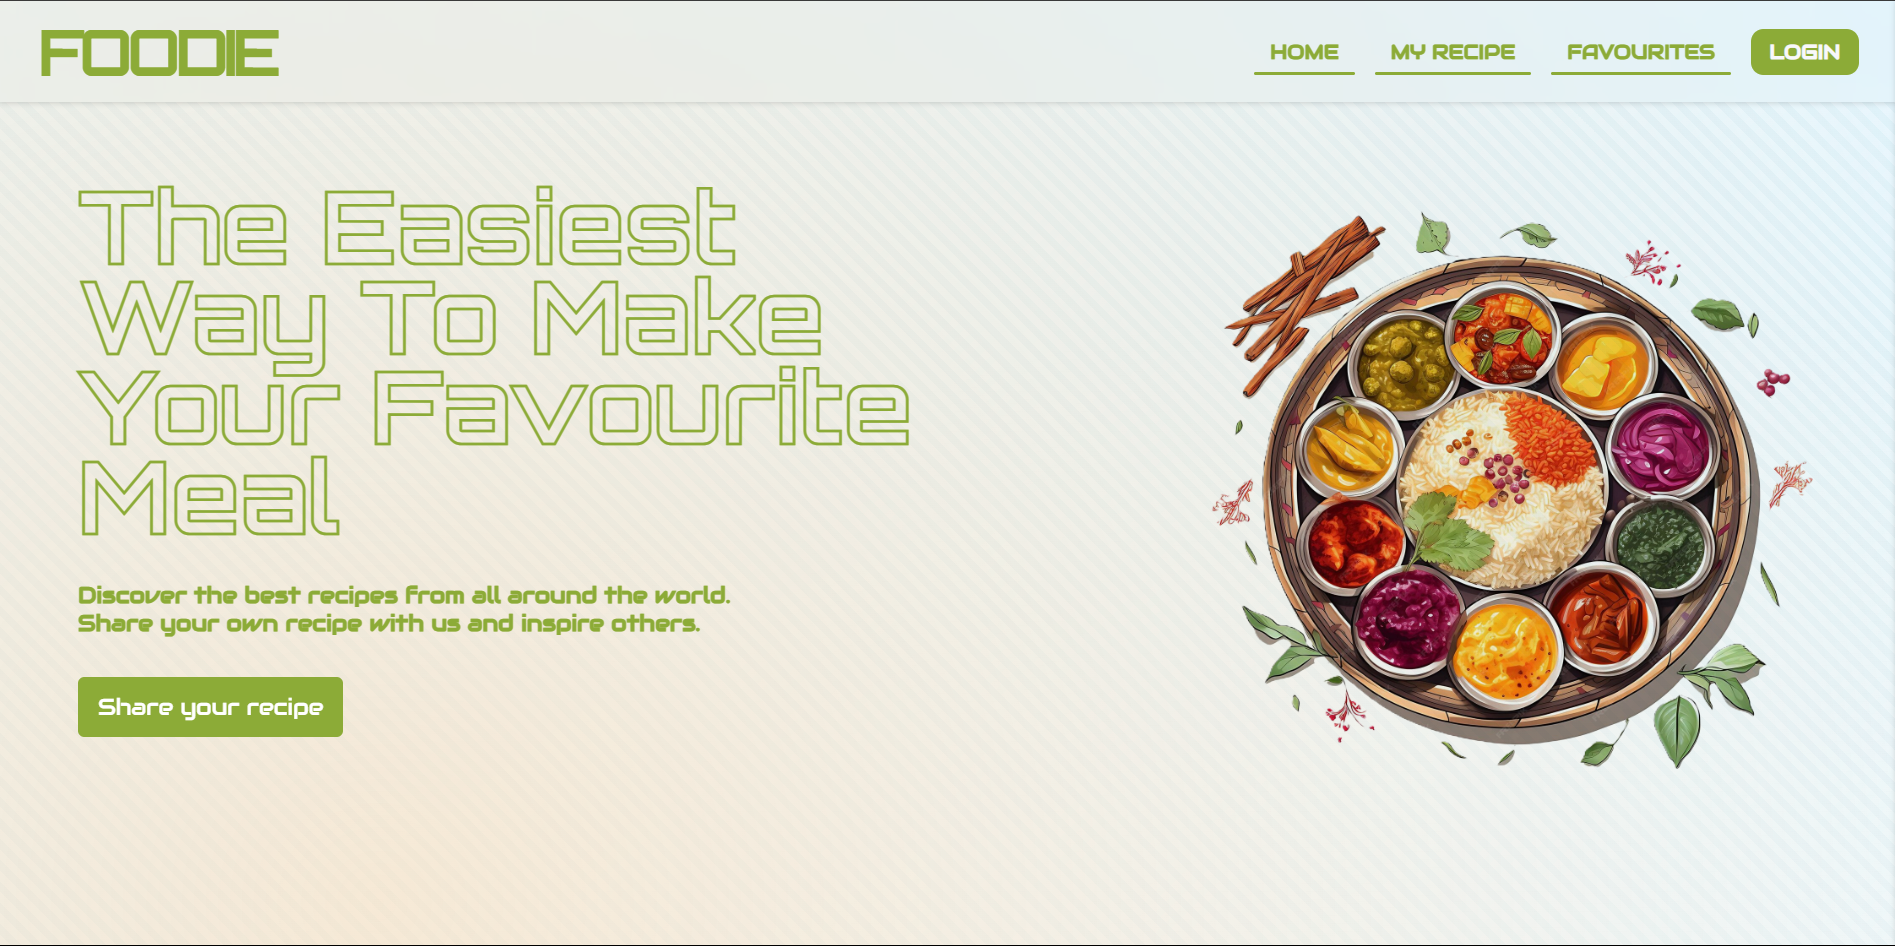
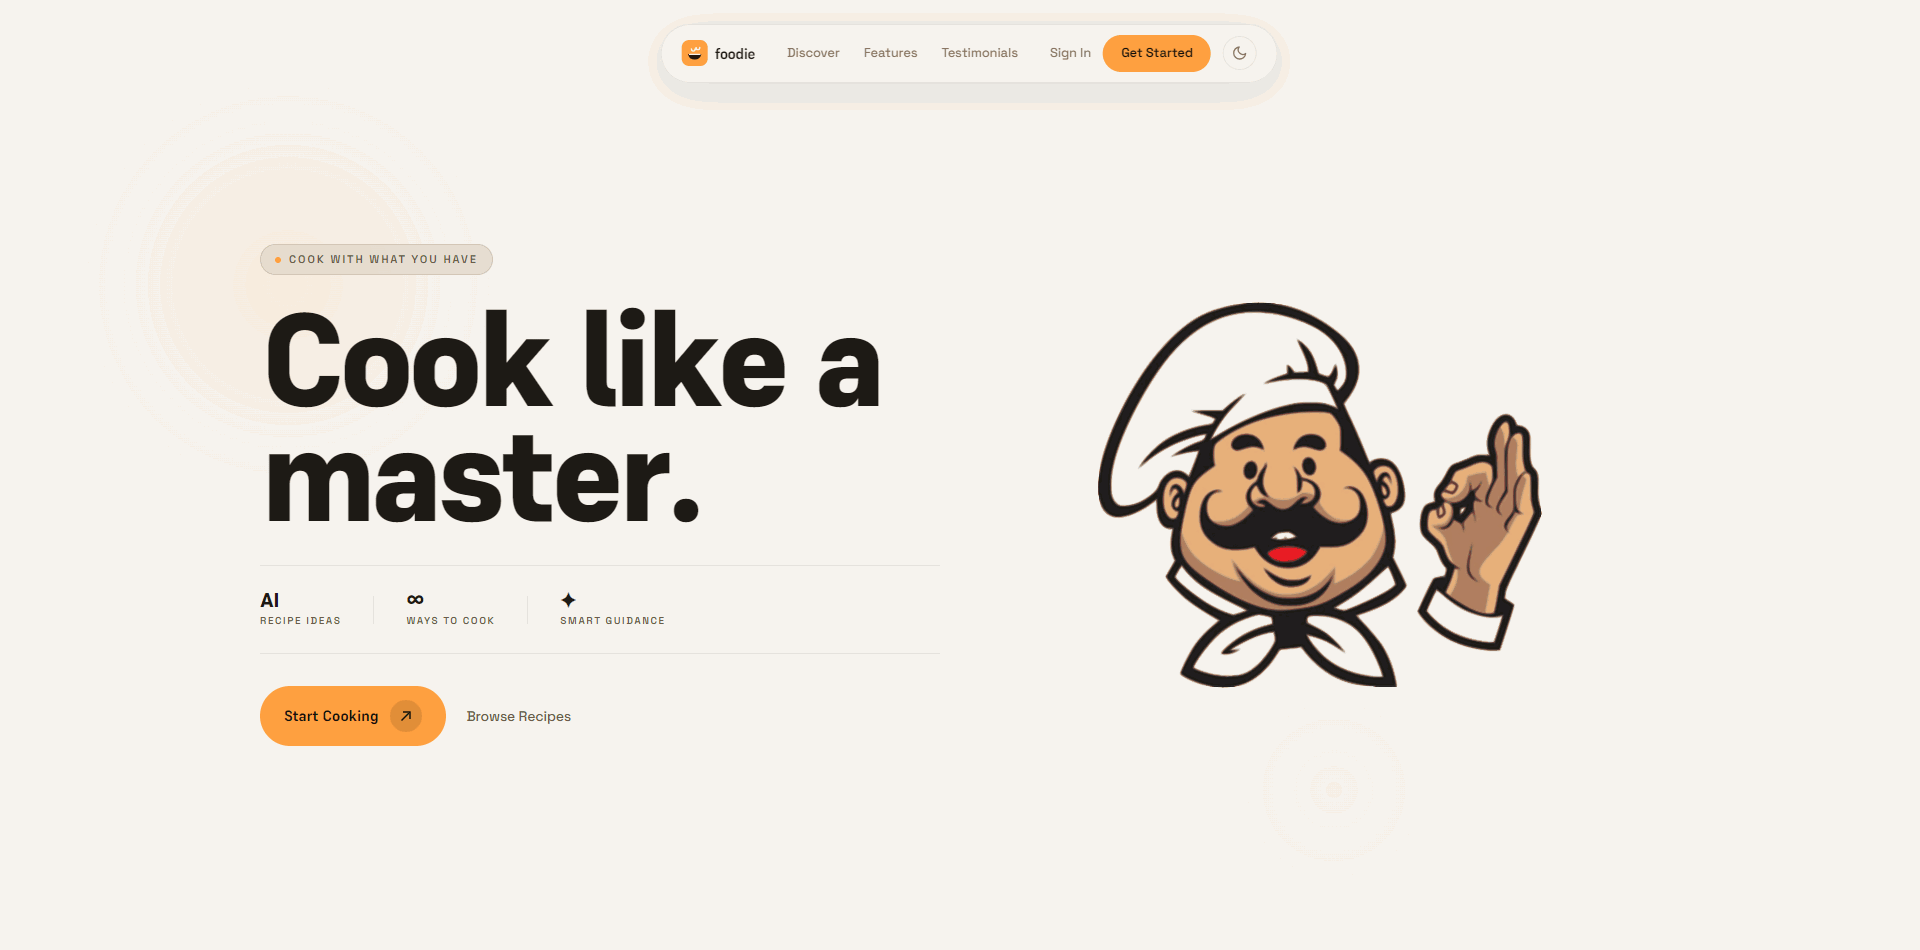
feat: update projects and experience
- Add Tydo, Atelier and Kaarigar Studio projects with live screenshots
- Rename LinkVault to Bookmarky and Food Recipe App to Foodie; refresh
  TaskFlow; new screenshots, descriptions and live links
- CatalyzeX full-time duration now computed from start date; refresh
  role description, highlights and skills
- About: mention current role, bump project count

diff --git a/src/components/Projects.jsx b/src/components/Projects.jsx
@@ -23,15 +23,83 @@ import linkVaultBanner from "../assets/linkvault.png";
 import cocBanner from "../assets/coc.png";
 import supabaseIcon from "../assets/supabase-dark.svg";
 import nodeIcon from "../assets/nodejs-icon.svg";
+import tsIcon from "../assets/typescript (1).svg";
+import nextIcon from "../assets/nextjs.svg";
+import tydo from "../assets/tydo.png";
+import atelier from "../assets/atelier.png";
+import kaarigar from "../assets/kaarigar.png";
 
 const webProjects = [
     {
+        id: 2,
+        title: "Bookmarky",
+        category: "Full Stack",
+        image: linkVaultBanner,
+        description: "Personal bookmark library that turns links, screenshots and files into searchable folders: rich previews, tags, bulk and browser-bookmark import, PDF export.",
+        liveLink: "https://link-vault-two.vercel.app/",
+        codeLink: "https://github.com/aniketkumar7/LinkVault",
+        technologies: [
+            { name: "React", icon: reactIcon },
+            { name: "TypeScript", icon: tsIcon },
+            { name: "Tailwind", icon: tailwindIcon },
+            { name: "Supabase", icon: supabaseIcon },
+            { name: "Node.js", icon: nodeIcon },
+        ],
+        year: "2026",
+    },
+    {
+        id: 10,
+        title: "Tydo",
+        category: "Productivity",
+        image: tydo,
+        description: "Productivity workspace combining todos (list + kanban), habits and streaks, focus timer, notes, Google Calendar sync, analytics, and a command palette.",
+        liveLink: "https://tydo-rho.vercel.app/",
+        codeLink: "https://github.com/aniketkumar7/Tydo",
+        technologies: [
+            { name: "React", icon: reactIcon },
+            { name: "TypeScript", icon: tsIcon },
+            { name: "Tailwind", icon: tailwindIcon },
+            { name: "Supabase", icon: supabaseIcon },
+        ],
+        year: "2026",
+    },
+    {
+        id: 11,
+        title: "Atelier",
+        category: "Full Stack",
+        image: atelier,
+        description: "Neo-brutalist art gallery and marketplace with collections, commissions, and an admin dashboard (JWT auth, bulk edits, analytics) on Cloudflare Workers + D1.",
+        liveLink: "https://art-marketplace.aniketkumar639597.workers.dev/",
+        codeLink: "https://github.com/aniketkumar7/Atelier",
+        technologies: [
+            { name: "Next.js", icon: nextIcon },
+            { name: "TypeScript", icon: tsIcon },
+            { name: "Cloudflare" },
+        ],
+        year: "2026",
+    },
+    {
+        id: 12,
+        title: "Kaarigar Studio",
+        category: "Client Work",
+        image: kaarigar,
+        description: "SEO-first business site for a Delhi laser cutting and CNC studio. Every page pre-rendered to static HTML, content-driven services, blog and shop.",
+        liveLink: "https://kaarigar-studio-mu.vercel.app/",
+        codeLink: "https://github.com/aniketkumar7/kaarigar-studio",
+        technologies: [
+            { name: "React", icon: reactIcon },
+            { name: "React Router" },
+            { name: "Tailwind", icon: tailwindIcon },
+        ],
+        year: "2026",
+    },
+    {
         id: 1,
-        title: "Food Recipe App",
+        title: "Foodie",
         category: "Full Stack",
         image: food,
-        description: "Community-driven recipe sharing platform with user authentication and secure recipe management.",
-        liveLink: "https://food-app-29au.onrender.com/",
+        description: "Community recipe platform to discover, cook, and share recipes, with AI-powered meal planning and recipe suggestions.",
+        liveLink: "https://food-blog-app-green.vercel.app/",
         codeLink: "https://github.com/aniketkumar7/FOOD_BLOG_APP",
         technologies: [
             { name: "React", icon: reactIcon },
@@ -41,23 +109,6 @@ const webProjects = [
             { name: "Node.js", icon: nodeIcon },
         ],
         year: "2025",
-    },
-    {
-        id: 2,
-        title: "LinkVault",
-        category: "Full Stack",
-        image: linkVaultBanner,
-        description: "Personal link vault to save, organize, and never lose useful URLs (collections, tags, favorites, search).",
-        liveLink: "https://link-vault-beta.vercel.app/",
-        codeLink: "https://github.com/aniketkumar7/LinkVault",
-        technologies: [
-            { name: "React", icon: reactIcon },
-            { name: "Tailwind", icon: tailwindIcon },
-            { name: "Supabase", icon: supabaseIcon },
-            { name: "JavaScript", icon: jsIcon },
-            { name: "Node.js", icon: nodeIcon },
-        ],
-        year: "2026",
     },
     {
         id: 3,
@@ -76,10 +127,10 @@ const webProjects = [
     },
     {
         id: 4,
-        title: "Task Flow",
+        title: "TaskFlow",
         category: "Productivity",
         image: task,
-        description: "Elegant task management app with filtering and local storage.",
+        description: "Minimal, fast, local-first task tracker with priorities, due dates, search, keyboard shortcuts, and light/dark themes.",
         liveLink: "https://task-flow-theta-ruddy.vercel.app/",
         codeLink: "https://github.com/aniketkumar7/Task-Flow",
         technologies: [

diff --git a/src/components/Experience.jsx b/src/components/Experience.jsx
@@ -3,6 +3,14 @@ import Marquee from "../Loader/Marquee";
 import { useTheme } from "../context/ThemeContext";
 import "./Experience.css";
 
+// Months since start (inclusive), formatted like LinkedIn: "1 yr 3 mos"
+const sinceDuration = (year, month) => {
+    const now = new Date();
+    const total = (now.getFullYear() - year) * 12 + (now.getMonth() + 1 - month) + 1;
+    const y = Math.floor(total / 12), m = total % 12;
+    return [y && `${y} yr${y > 1 ? "s" : ""}`, m && `${m} mo${m > 1 ? "s" : ""}`].filter(Boolean).join(" ");
+};
+
 const Experience = forwardRef(({ textColor }, ref) => {
     const { theme } = useTheme();
     const [activeIndex, setActiveIndex] = useState(0);
@@ -13,14 +21,15 @@ const Experience = forwardRef(({ textColor }, ref) => {
             type: "Full-time",
             company: "CatalyzeX",
             period: "Sep 2025 — Present",
-            duration: "5 mos",
+            duration: sinceDuration(2025, 9),
             location: "Remote",
-            description: "Building and scaling software solutions with focus on web engineering and software design.",
+            description: "Converted to full-time after the internship. Shipping product features end to end, from React/Next.js frontends to FastAPI services.",
             highlights: [
-                "Developing scalable web applications",
-                "Contributing to software architecture decisions"
+                "Building production features across TypeScript frontends and Python/FastAPI backends",
+                "Working on systems that handle sensitive data, with access control and audit trails",
+                "Polishing UI and motion with Framer Motion; reviewing code for security and reliability"
             ],
-            skills: ["Software Design", "Web Engineering", "Full-Stack"],
+            skills: ["React", "Next.js", "TypeScript", "FastAPI", "Python"],
         },
         {
             role: "Software Developer",

diff --git a/src/components/About.jsx b/src/components/About.jsx
@@ -102,7 +102,7 @@ const About = forwardRef(({ textColor }, ref) => {
                         viewport={{ once: true }}
                     >
                         Building digital experiences that blend aesthetics with functionality. 
-                        Currently crafting interfaces at the intersection of design and code.
+                        Currently a Software Developer at CatalyzeX, shipping full-stack features from UI to API.
                     </motion.p>
 
                     <motion.div 
@@ -121,7 +121,7 @@ const About = forwardRef(({ textColor }, ref) => {
                         <div className="stat-divider" />
                         <div className="stat">
                             <div className="stat-value">
-                                <AnimatedNumber value={10} suffix="+" />
+                                <AnimatedNumber value={15} suffix="+" />
                             </div>
                             <div className="stat-label">Projects</div>
                         </div>
